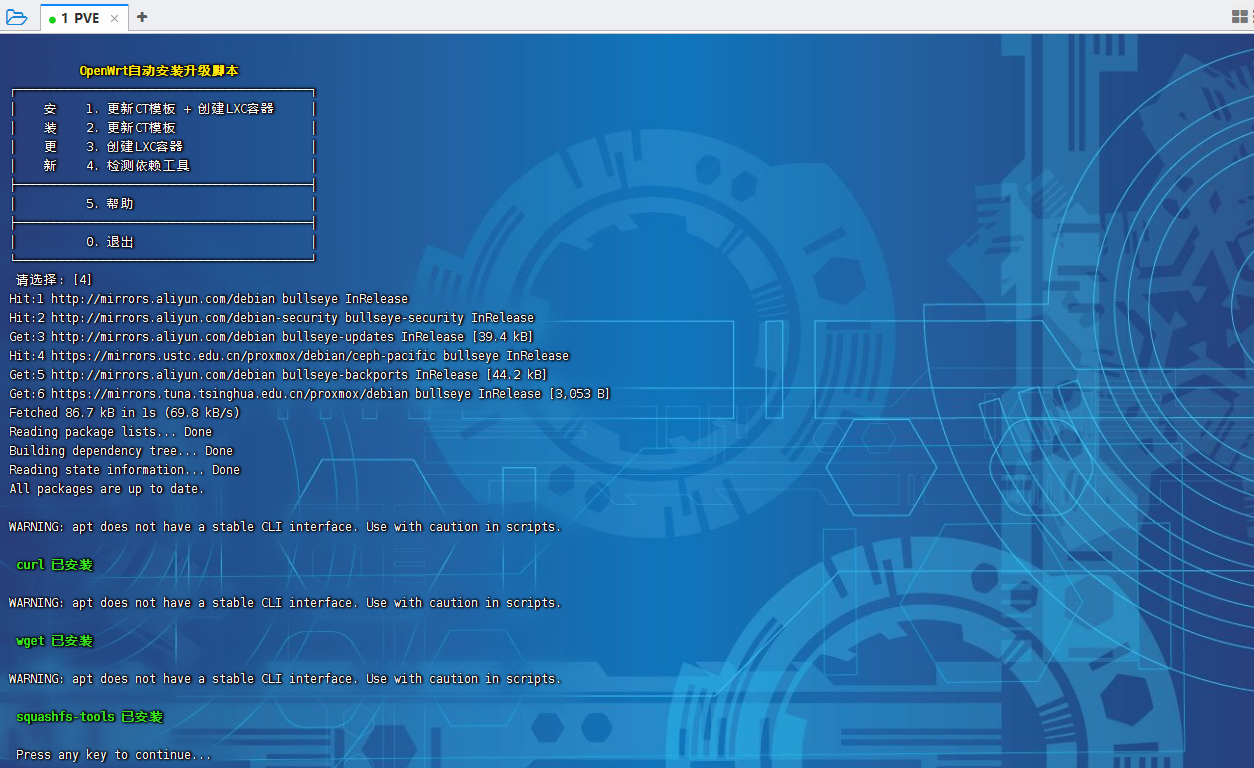
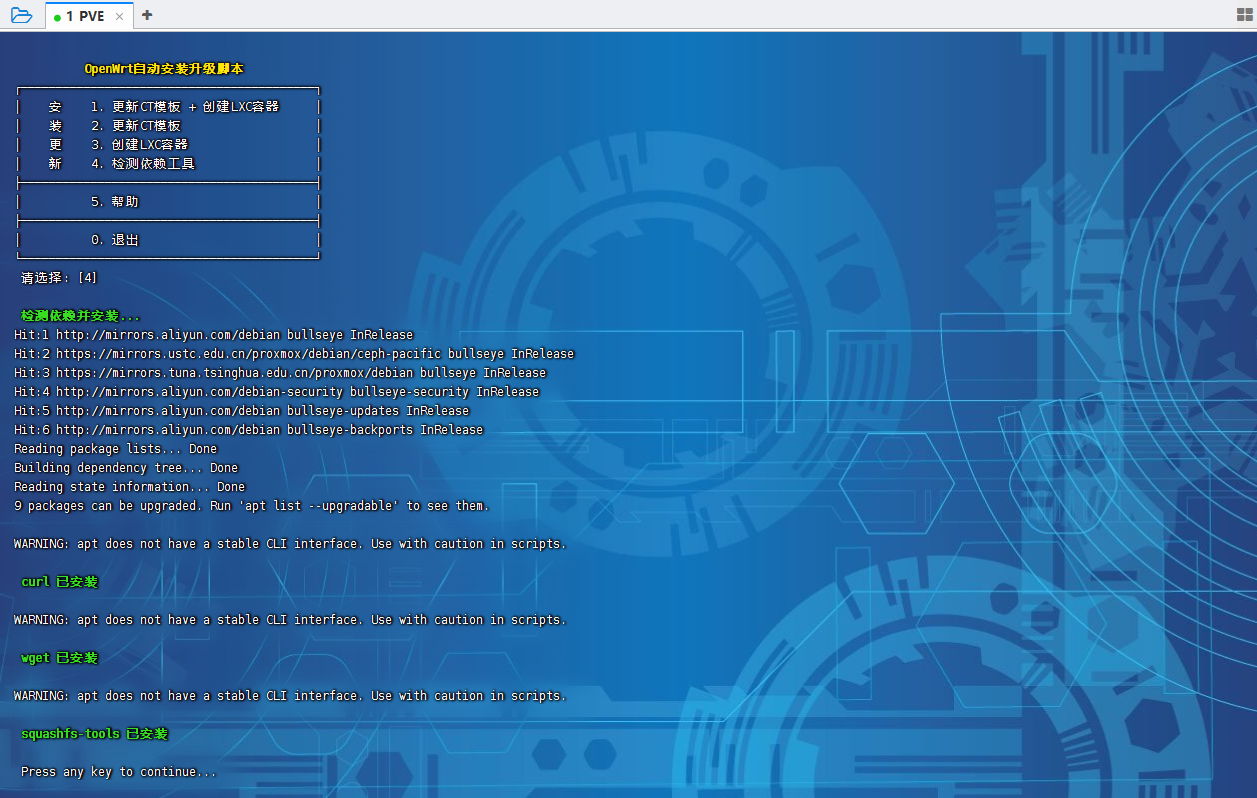
update

diff --git a/PVE/readme.md b/PVE/readme.md
@@ -88,7 +88,9 @@ bash -c  "$(curl -fsSL https://raw.githubusercontent.com/roacn/myFavorites/main/
 
 ![openwrt2.png](https://raw.githubusercontent.com/roacn/myFavorites/main/img/openwrt2.png)
 
-![openwrt3.png](https://raw.githubusercontent.com/roacn/myFavorites/main/img/openwrt3.png)
+![openwrt31.png](https://raw.githubusercontent.com/roacn/myFavorites/main/img/openwrt31.png)
+
+![openwrt32.png](https://raw.githubusercontent.com/roacn/myFavorites/main/img/openwrt32.png)
 
 ![openwrt4.png](https://raw.githubusercontent.com/roacn/myFavorites/main/img/openwrt4.png)
 
